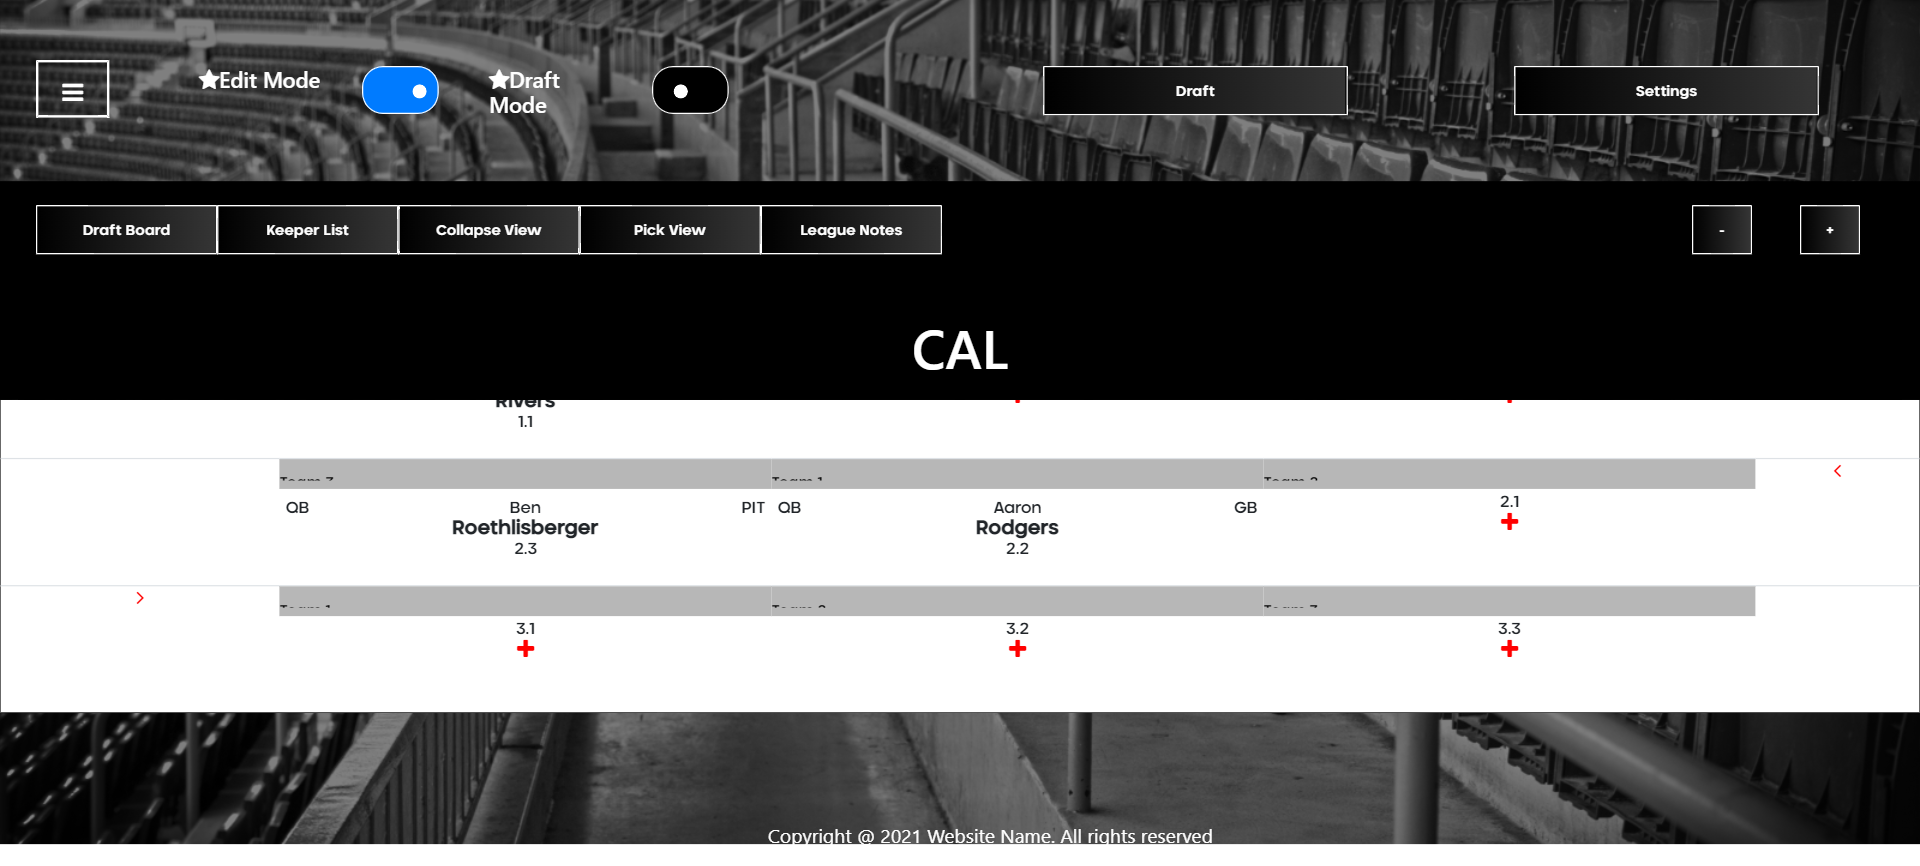
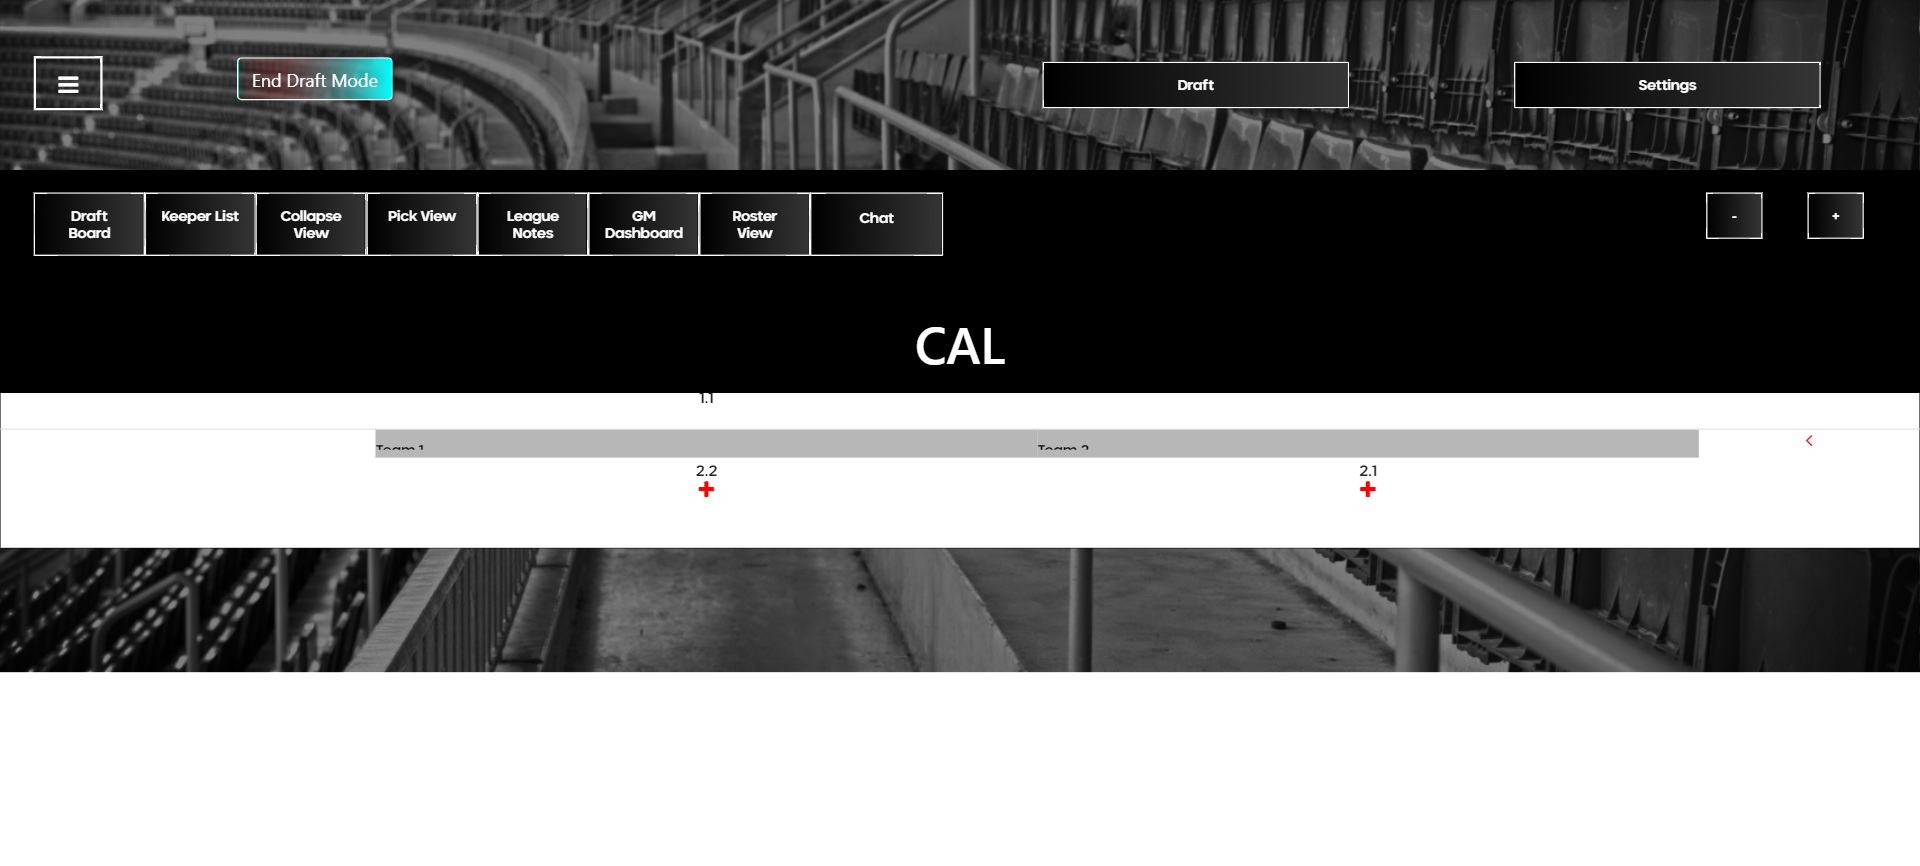
fantasy chagnes done

diff --git a/resources/views/league/draft.blade.php b/resources/views/league/draft.blade.php
@@ -27,6 +27,13 @@
       box-shadow: 0 0 0 0 rgba(255, 82, 82, 0);
     }
   }
+  .mybutton{
+    border:1px solid white;
+    background: linear-gradient(to right, rgba(255,0,0,0), rgba(0,255,255,1));
+  }
+ .assign_order h2:hover{
+    background: red;
+  }
 </style>
 @endsection
 @section('content')
@@ -57,8 +64,27 @@ return (($a->round_order) < ($b->round_order));
       <div class="row">
         <div class="col-md-6">
           <form id="updateLeague" class="draftFrom">
-
             <div class="list_edit">
+              <div class="row">
+                <div class="col-md-4">
+                </div>
+                <div class="col-md-7 ">
+                  <div class="custom-control custom-switch">
+                    @php 
+                    if($league->status=="keeper")
+                    {
+                         $mode='started';
+                    }
+                    else{
+                         $mode='keeper';
+                      }
+                    @endphp
+                    <button class="btn btn-success mybutton" data-mode="{{$mode}}">@if($league->status=="keeper"){{'End Draft Mode'}}@else{{'Live Draft Mode'}}@endif</button>
+                  </div>
+                </div>
+              </div>
+            </div>
+            <div class="list_edit d-none">
               <div class="row">
                 <div class="col-md-4"></div>
                 <div class="col-md-4 no-bdr">
@@ -73,7 +99,7 @@ return (($a->round_order) < ($b->round_order));
                 </div>
               </div>
             </div>
-            <div class="list_edit">
+            <div class="list_edit d-none">
               <div class="row">
                 <div class="col-md-4 no-bdr">
                   <h4><span><i class="fa fa-star yellow"></i>Draft Mode</span></h4>
@@ -146,20 +172,20 @@ return (($a->round_order) < ($b->round_order));
         <div class="row">
           <div class="col-lg-6">
             <div class="d-flex">
-              <h2 class=" " style="width:20%;"><a style="color:#fff" href="{{url('/league/'.$league->id.'/draft')}}">Draft Board</a></h2>
-              @if($league->status=="keeper")
+              <h2 class=" " style="width:20%;"><a style="color:#fff;" href="{{url('/league/'.$league->id.'/draft')}}">Draft Board</a></h2>
+             
               <h2 class=" " style="width:20%;"><a style="color:#fff" href="{{url('/league/'.$league->id.'/draft?type=keeperlist')}}">Keeper List</a></h2>
               <h2 class=" " style="width:20%;"><a style="color:#fff" href="{{url('/league/'.$league->id.'/draft?type=collapseview')}}">Collapse View</a></h2>
 
               <h2 class=" " style="width:20%;"><a style="color:#fff" href="{{url('/league/'.$league->id.'/draft?type=pickview')}}">Pick View</a></h2>
               <h2 class=" " style="width:20%;"><a style="color:#fff" href="#">League Notes</a></h2>
-              @endif
-              @if($league->status!="keeper")
+             
+            
               <h2 class=" " style="width:20%;"><a style="color:#fff" href="#">GM Dashboard</a></h2>
 
               <h2 class=" " style="width:20%;"><a style="color:#fff" href="{{url('/league/'.$league->id.'/roster-view')}}">Roster View</a></h2>
               <h2 class=" " style="width:20%;padding: 14px 33px;"><a style="color:#fff" href="#">Chat</a></h2>
-              @endif
+            
             </div>
           </div>
         @if(auth::user()->role=="Admin")
@@ -1066,5 +1092,42 @@ return (($a->round_order) < ($b->round_order));
       })
 
     })
+  </script>
+  <script type="text/javascript">
+      $(".mybutton").on('click',function(){
+        var leagueStatus = $(this).attr('data-mode');
+        let modeId = leagueStatus == "started" ? "keeperMode" : "draftMode";
+        if(modeId=="keeperMode")
+        {
+             title='Back to the Lab!';
+        }
+        else{
+            title='Live Draft Mode';
+        }
+        swal({
+                title: ""+title+"",
+                buttons: true,
+            }).then((confirm) => {
+                if (confirm) {
+                    changeLeagueStatus(leagueStatus);
+                } 
+            });
+      })
+      function changeLeagueStatus(status) {
+    $.ajax({
+        type: "POST",
+        url: "/league/" + $("input[name='league_id']").val() + "/changeStatus",
+        data: { status: status },
+        success: function (response) {
+            if (response.status == 200) {
+                successMessage(response.message);
+                    window.location.href =
+                        "/league/" + response.data.id + "/draft";
+            } else {
+                errorMessage(response.message);
+            }
+        },
+    });
+}
   </script>
   @endsection

diff --git a/resources/views/league/settings.blade.php b/resources/views/league/settings.blade.php
@@ -51,6 +51,9 @@ $permissions = (isset($league->permissions[0]) && isset($league->permissions[0]-
 	#inviteURL{
 		position: relative;
 	}
+    .incrementNumber input{
+           pointer-events: none;
+       }
 </style>
 <div class="create_league_table assign_order the_lottery squads_board draft_boards setting create_league">
 	<div class="container">
@@ -298,9 +301,9 @@ $permissions = (isset($league->permissions[0]) && isset($league->permissions[0]-
 								<th class="text_head">Overall Pick</th>
 								<th>Team</th>
 								<th>Email</th>
-								@if($league->status == 'setup')
+								{{--@if($league->status == 'setup')--}}
 								<th>Actions</th>
-								@endif
+								{{--@endif--}}
 							</tr>
 						</thead>
 						<tbody>
@@ -319,13 +322,13 @@ $permissions = (isset($league->permissions[0]) && isset($league->permissions[0]-
 								<td class="txt_head teamId" data-id="{{$team->id}}">{{++$index}}</td>
 								<td class="teamName" contenteditable="{{ $editable }}">{{$team->team_name}}</td>
 								<td class="teamEmail" contenteditable="{{ $editable }}">{{$team->team_email}}</td>
-								@if($league->status == 'setup')
+								{{-- @if($league->status == 'setup') --}}
 								<td class="deleteTeam">
 									@if($permissions != 3)
 									<i class="fa fa-trash" aria-hidden="true"></i>
 									@endif
 								</td>
-								@endif
+								{{--@endif --}}
 							</tr>
 							@endforeach
 							@endif
@@ -334,11 +337,11 @@ $permissions = (isset($league->permissions[0]) && isset($league->permissions[0]-
 				</div>
 			</div>
 		</div>
-		@if($league->status == 'setup')
+	{{-- 	@if($league->status == 'setup') --}}
 		<div class="save">
 			<button type="button" class="addTeam">Add Team</button>
 		</div>
-		@endif
+		{{-- @endif --}}
 		<!-- <div class="save" style="margin-bottom:21px;">
 			<button type="button" class="addTeam"><a href="{{url('league/'.$league->id.'/rounds')}}" style="color:#fff;">Enter Draft Picks Manually</a></button>
 		</div> -->

diff --git a/app/Http/Controllers/DraftController.php b/app/Http/Controllers/DraftController.php
@@ -570,15 +570,14 @@ class DraftController extends Controller
                         $RosterTeamplayer->league_id = $leagueId;
                         $RosterTeamplayer->round_number = $request->round_number;
                         $RosterTeamplayer->save();
-                        DB::commit();
                         return $this->sendResponse(200, 'Pick saved successfully.', ['nround_id' => $leaguerounddata->id, 'round_id' => $roundId, 'league_round' => $leagueRound, 'leagueid' => $leagueId, 'leagueteam' => $league, 'counts' => League::getLeagueRoundsCount($leagueId)]);
                     }
                     else
                     {
-                         DB::rollback();
+                           LeagueRound::where(['round_number' => $request->round_number, 'round_order' => $request->round_order, 'league_id' => $leagueId])->update(['player_id' => null]);
                           return $this->sendResponse(400, 'No space available on roster.', ['nround_id' => $leaguerounddata->id, 'round_id' => $roundId, 'league_round' => $leagueRound, 'leagueid' => $leagueId, 'leagueteam' => $league, 'counts' => League::getLeagueRoundsCount($leagueId)]);
                     }
-                    // return $this->sendResponse(200, 'Pick saved successfully.', ['nround_id' => $leaguerounddata->id, 'round_id' => $roundId, 'league_round' => $leagueRound, 'leagueid' => $leagueId, 'leagueteam' => $league, 'counts' => League::getLeagueRoundsCount($leagueId)]);
+                   // return $this->sendResponse(200, 'Pick saved successfully.', ['nround_id' => $leaguerounddata->id, 'round_id' => $roundId, 'league_round' => $leagueRound, 'leagueid' => $leagueId, 'leagueteam' => $league, 'counts' => League::getLeagueRoundsCount($leagueId)]);
                 } else {
                     $league = League::leagueData($leagueId);
                     //if user is admin or league admin or team assign to that user
